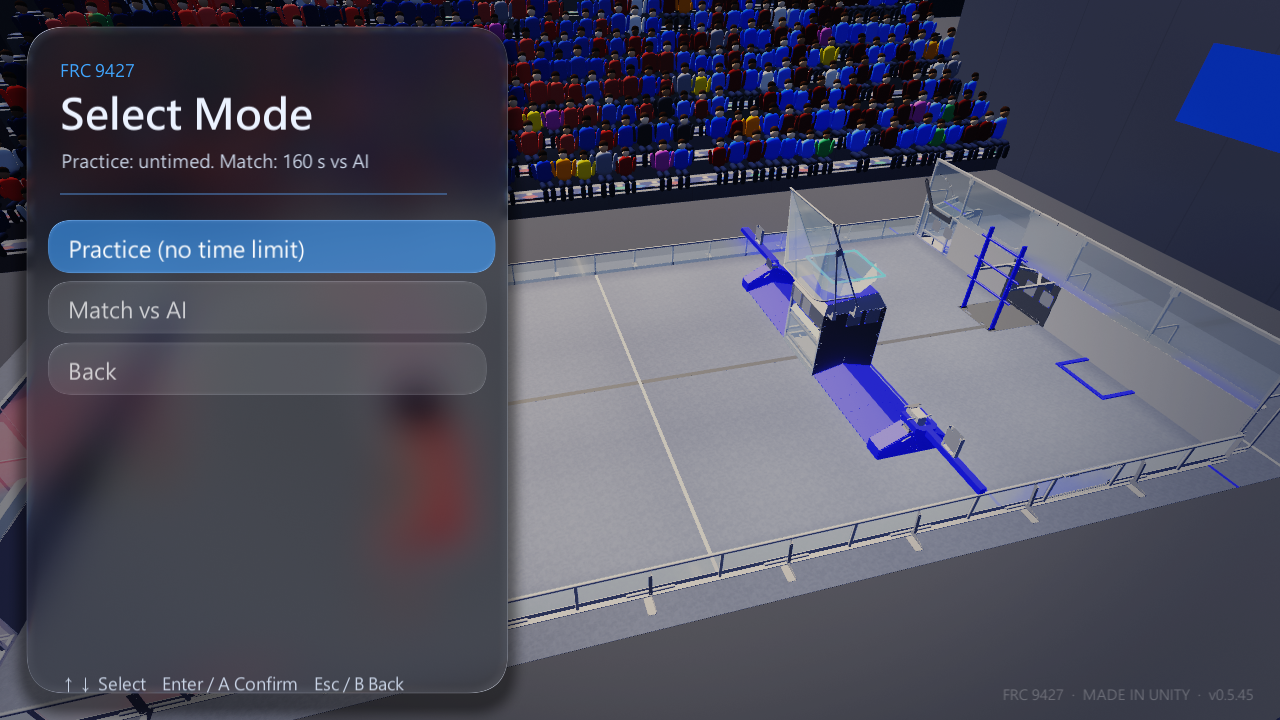
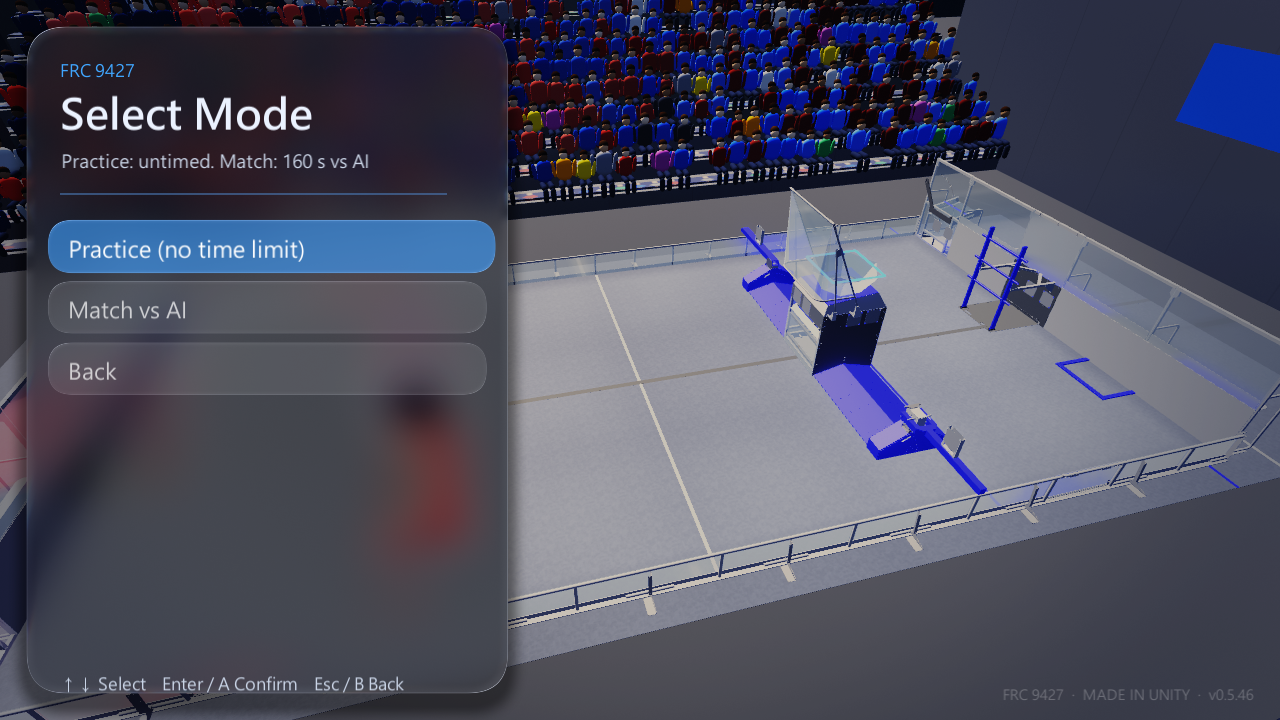
v0.5.46 catalog notes en

diff --git a/Assets/Scripts/Sim/OpenSourceCatalog.cs b/Assets/Scripts/Sim/OpenSourceCatalog.cs
@@ -44,6 +44,21 @@ namespace FrcSim
                 Note = "官方入門機(BSD-3);用 SparkMax,暫不支援" },
         };
 
+        public static string NoteFor(Entry e)
+        {
+            if (Loc.Lang != "en") return e.Note;
+            switch (e.Id)
+            {
+                case "6901-Rebuilt": return "Driver: A intake, X spin-up, LT/RT shoot, LB auto-turn to HUB";
+                case "1710-Robot": return "Driver RT intakes & feeds; auto-aim turns the robot itself";
+                case "1405-Robot": return "Verified: operator picks shot speed with B/Y/A, driver LB intakes, RB shoots";
+                case "364-Fusion": return "Driver X intakes, RT shoots (auto-aim), LB stows intake";
+                case "4915-Artemis": return "Operator Start = auto-aim, then LT intake, RT shoot";
+                case "REV-ION-StarterBot": return "Official starter bot (BSD-3); uses SparkMax, not supported yet";
+                default: return e.Note;
+            }
+        }
+
         public static bool Installed(Entry e) { return File.Exists(Path.Combine(e.Dir, "gradlew.bat")); }
 
         // 選用這個隊伍時同時換上對應的 3D 模型:模型庫已下載就直接用;還沒下載就先用程序化外觀並背景下載,好了自動換上
@@ -141,3 +156,5 @@ namespace FrcSim
         }
     }
 }
+
+

diff --git a/Assets/Scripts/UI/MenuSystem.cs b/Assets/Scripts/UI/MenuSystem.cs
@@ -381,7 +381,7 @@ namespace FrcSim
                     {
                         var lm = string.IsNullOrEmpty(en2.LibModel) ? null : ModelLibrary.Find(en2.LibModel);
                         string mdl = lm == null ? "" : Z("模型", "Model") + ": " + ModelLibrary.Name(lm) + (ModelLibrary.Installed(lm) ? "" : (lm.State == "…" ? Z("(下載中…)", "(downloading…)") : "")) + "   ·   ";
-                        return (en2.State == "…" ? OpenSourceCatalog.Busy(en2) : en2.State != "" ? en2.State : OpenSourceCatalog.Installed(en2) ? (Prefs.GetString("robotProject", "") == en2.Dir ? Z("使用中 ✓", "In use ✓") : Z("已下載,按一下使用", "Installed — click to use")) : Z("按一下下載", "Click to download")) + "   ·   " + mdl + en2.Note;
+                        return (en2.State == "…" ? OpenSourceCatalog.Busy(en2) : en2.State != "" ? en2.State : OpenSourceCatalog.Installed(en2) ? (Prefs.GetString("robotProject", "") == en2.Dir ? Z("使用中 ✓", "In use ✓") : Z("已下載,按一下使用", "Installed — click to use")) : Z("按一下下載", "Click to download")) + "   ·   " + mdl + OpenSourceCatalog.NoteFor(en2);
                     }
                 });
             }
@@ -678,6 +678,7 @@ namespace FrcSim
         }
     }
 }
+
 
 
 

diff --git a/Assets/Scripts/Sim/UpdateCheck.cs b/Assets/Scripts/Sim/UpdateCheck.cs
@@ -17,7 +17,7 @@ namespace FrcSim
     //   找不到差異包(或失敗)時退回「開啟下載頁」,讓使用者手動下載完整版。
     public class UpdateCheck : MonoBehaviour
     {
-        public const string Current = "0.5.45";
+        public const string Current = "0.5.46";
         const string Repo = "frc9427liu-tech/FRC9427-SimApp";
         const string ReleasesApi = "https://api.github.com/repos/" + Repo + "/releases?per_page=30";
         public const string Page = "https://github.com/" + Repo + "/releases/latest";
@@ -235,6 +235,7 @@ Start-Process -FilePath $Exe -WorkingDirectory $Dst
 ";
     }
 }
+
 
 
 
